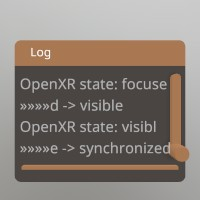
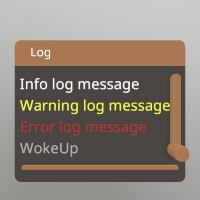
Vulkan is the only supported graphics backend now.

Changed region(s): [[0.09, 0.39, 0.87, 0.78]]

diff --git a/src/tools/xr_comp_layers.rs b/src/tools/xr_comp_layers.rs
@@ -14,17 +14,13 @@ use crate::{
 use openxr_sys::{pfn::CreateSwapchainAndroidSurfaceKHR, platform::jobject};
 
 use openxr_sys::{
-    Duration, Handle, Session, Space, Swapchain, SwapchainImageWaitInfo,
+    CompositionLayerFlags, CompositionLayerQuad, Duration, Extent2Df, Extent2Di, EyeVisibility, Handle, Offset2Di,
+    Posef, Quaternionf, Rect2Di, Result as XrResult, Session, Space, StructureType, Swapchain, SwapchainCreateFlags,
+    SwapchainCreateInfo, SwapchainImageWaitInfo, SwapchainSubImage, SwapchainUsageFlags, Vector3f,
     pfn::{
         AcquireSwapchainImage, CreateSwapchain, DestroySwapchain, EnumerateSwapchainImages, ReleaseSwapchainImage,
         WaitSwapchainImage,
     },
-};
-
-use openxr_sys::{
-    CompositionLayerFlags, CompositionLayerQuad, Extent2Df, Extent2Di, EyeVisibility, Offset2Di, Posef, Quaternionf,
-    Rect2Di, Result as XrResult, StructureType, SwapchainCreateFlags, SwapchainCreateInfo, SwapchainSubImage,
-    SwapchainUsageFlags, Vector3f,
 };
 
 use std::ptr::null_mut;
@@ -180,20 +176,13 @@ impl XrCompLayers {
     /// Convert a StereoKit `TexFormat` into the corresponding native OpenXR format value.
     pub fn to_native_format(format: TexFormat) -> i64 {
         match Backend::graphics() {
-            BackendGraphics::D3D11 => match format {
-                TexFormat::Rgba32Srgb => 29,
-                TexFormat::Rgba32Linear => 28,
-                TexFormat::Bgra32Srgb => 91,
-                TexFormat::Bgra32Linear => 87,
-                TexFormat::Rgb10a2 => 24,
-                TexFormat::Rg11b10 => 26,
-                _ => panic!("Unsupported texture format"),
-            },
-            BackendGraphics::OpenGLESEGL => match format {
-                TexFormat::Rgba32Srgb => 0x8C43,
-                TexFormat::Rgba32Linear => 0x8058,
-                TexFormat::Rgb10a2 => 0x8059,
-                TexFormat::Rg11b10 => 0x8C3A,
+            BackendGraphics::Vulkan => match format {
+                TexFormat::Rgba32Srgb => 43,   // VK_FORMAT_R8G8B8A8_SRGB
+                TexFormat::Rgba32Linear => 37, // VK_FORMAT_R8G8B8A8_UNORM
+                TexFormat::Bgra32Srgb => 50,   // VK_FORMAT_B8G8R8A8_SRGB
+                TexFormat::Bgra32Linear => 44, // VK_FORMAT_B8G8R8A8_UNORM
+                TexFormat::Rgb10a2 => 64,      // VK_FORMAT_A2B10G10R10_UNORM_PACK32
+                TexFormat::Rg11b10 => 122,     // VK_FORMAT_B10G11R11_UFLOAT_PACK32
                 _ => panic!("Unsupported texture format"),
             },
             _ => panic!("Unsupported graphics backend"),
@@ -446,10 +435,7 @@ pub struct SwapchainSk {
     pub height: u32,
     pub acquired: u32,
     images: Vec<Tex>,
-    #[cfg(unix)]
-    gles_images: Vec<openxr_sys::SwapchainImageOpenGLESKHR>,
-    #[cfg(windows)]
-    d3d_images: Vec<openxr_sys::SwapchainImageD3D11KHR>,
+    vk_images: Vec<openxr_sys::SwapchainImageVulkanKHR>,
 }
 
 impl SwapchainSk {
@@ -505,8 +491,7 @@ impl SwapchainSk {
         Some(&self.images[self.acquired as usize])
     }
 
-    /// Wrap OpenGL ES swapchain images into `Tex` objects for `unix` platforms.
-    #[cfg(unix)]
+    /// Wrap Vulkan swapchain images into `Tex` objects.
     pub fn wrap(
         handle: Swapchain,
         format: TexFormat,
@@ -514,97 +499,12 @@ impl SwapchainSk {
         height: u32,
         xr_comp_layers: Option<XrCompLayers>,
     ) -> Option<Self> {
-        use openxr_sys::SwapchainImageOpenGLESKHR;
-
-        let xr_comp_layers = get_xr_comp_layers(xr_comp_layers)?;
-
-        let mut image_count = 0;
-        match unsafe { xr_comp_layers.xr_enumerate_swaptchain_images.unwrap()(handle, 0, &mut image_count, null_mut()) }
-        {
-            XrResult::SUCCESS => {}
-            otherwise => {
-                Log::err(format!("❌ xrEnumerateSwapchainImages failed: {otherwise}"));
-                return None;
-            }
-        }
-
-        if Backend::graphics() == BackendGraphics::OpenGLESEGL {
-            let mut gles_images: Vec<SwapchainImageOpenGLESKHR> = {
-                let images: Vec<SwapchainImageOpenGLESKHR> = vec![
-                    SwapchainImageOpenGLESKHR {
-                        image: 0,
-                        ty: StructureType::SWAPCHAIN_IMAGE_OPENGL_ES_KHR,
-                        next: null_mut()
-                    };
-                    image_count as usize
-                ];
-                images
-            };
-
-            let mut final_count = 0;
-            match unsafe {
-                xr_comp_layers.xr_enumerate_swaptchain_images.unwrap()(
-                    handle,
-                    image_count,
-                    &mut final_count,
-                    gles_images.as_mut_ptr() as *mut _,
-                )
-            } {
-                XrResult::SUCCESS => {}
-                otherwise => {
-                    Log::err(format!("❌ xrEnumerateSwapchainImages failed: {otherwise}"));
-                    return None;
-                }
-            }
-
-            assert_eq!(gles_images.len(), image_count as usize);
-            //assert_eq!(gles_images.len(), 3);
-
-            let mut this =
-                Self { xr_comp_layers, handle, width, height, acquired: 0, gles_images, images: Vec::with_capacity(0) };
-
-            for image in &this.gles_images {
-                Log::diag(format!("SwapchainSk: image: {image:#?}"));
-                // let mut image_sk =
-                //     Tex::gen_color(named_colors::BLUE_VIOLET, width, height, TexType::Rendertarget, format);
-                //let mut image_sk = Tex::new(TexType::Rendertarget, format, None);
-                let mut image_sk =
-                    Tex::render_target(width as usize, height as usize, Some(2), Some(format), None).unwrap();
-                unsafe {
-                    image_sk.set_native_surface(
-                        image.image as *mut std::ffi::c_void,
-                        TexType::Rendertarget,
-                        XrCompLayers::to_native_format(format),
-                        width as i32,
-                        height as i32,
-                        1,
-                        true,
-                    )
-                };
-                this.images.push(image_sk);
-            }
-            Some(this)
-        } else {
-            Log::warn("❌ SwapchainSk: OpenGL ES backend is not available");
-            None
-        }
-    }
-
-    /// Wrap D3D11 swapchain images into `Tex` objects for `windows` platforms.
-    #[cfg(windows)]
-    pub fn wrap(
-        handle: Swapchain,
-        format: TexFormat,
-        width: u32,
-        height: u32,
-        xr_comp_layers: Option<XrCompLayers>,
-    ) -> Option<Self> {
-        use openxr_sys::SwapchainImageD3D11KHR;
+        use openxr_sys::SwapchainImageVulkanKHR;
         use std::ptr::null_mut;
 
         let xr_comp_layers = get_xr_comp_layers(xr_comp_layers)?;
 
-        // First, get the image count
+        // Get the image count
         let mut image_count = 0;
         match unsafe { xr_comp_layers.xr_enumerate_swaptchain_images.unwrap()(handle, 0, &mut image_count, null_mut()) }
         {
@@ -615,13 +515,13 @@ impl SwapchainSk {
             }
         }
 
-        // Only proceed for D3D11 backend
-        if Backend::graphics() == BackendGraphics::D3D11 {
-            // Prepare D3D11 image array
-            let mut d3d_images: Vec<SwapchainImageD3D11KHR> = vec![
-                SwapchainImageD3D11KHR {
-                    texture: null_mut(),
-                    ty: StructureType::SWAPCHAIN_IMAGE_D3D11_KHR,
+        // Only proceed for Vulkan backend
+        if Backend::graphics() == BackendGraphics::Vulkan {
+            // Prepare Vulkan image array
+            let mut vk_images: Vec<SwapchainImageVulkanKHR> = vec![
+                SwapchainImageVulkanKHR {
+                    image: 0,
+                    ty: StructureType::SWAPCHAIN_IMAGE_VULKAN_KHR,
                     next: null_mut(),
                 };
                 image_count as usize
@@ -632,7 +532,7 @@ impl SwapchainSk {
                     handle,
                     image_count,
                     &mut final_count,
-                    d3d_images.as_mut_ptr() as *mut _,
+                    vk_images.as_mut_ptr() as *mut _,
                 )
             } {
                 XrResult::SUCCESS => {}
@@ -642,20 +542,17 @@ impl SwapchainSk {
                 }
             }
             let mut this =
-                Self { xr_comp_layers, handle, width, height, acquired: 0, d3d_images, images: Vec::with_capacity(0) };
+                Self { xr_comp_layers, handle, width, height, acquired: 0, vk_images, images: Vec::with_capacity(0) };
 
-            // Wrap each D3D11 texture into a Tex object
-            for img in &this.d3d_images {
+            // Wrap each Vulkan image into a Tex object
+            for img in &this.vk_images {
                 Log::diag(format!("SwapchainSk: image: {:#?}", img));
-                // let mut image_sk =
-                //     Tex::gen_color(named_colors::BLUE_VIOLET, width, height, TexType::Rendertarget, format);
-                // let mut image_sk = Tex::new(TexType::Rendertarget, format, None);
                 let mut image_sk =
                     Tex::render_target(width as usize, height as usize, Some(1), Some(format), None).unwrap();
 
                 unsafe {
                     image_sk.set_native_surface(
-                        img.texture,
+                        img.image as *mut std::ffi::c_void,
                         TexType::Rendertarget,
                         XrCompLayers::to_native_format(format),
                         width as i32,
@@ -668,7 +565,7 @@ impl SwapchainSk {
             }
             Some(this)
         } else {
-            Log::warn("❌ SwapchainSk: D3D11 backend is not available");
+            Log::warn("❌ SwapchainSk: Vulkan backend is not available");
             None
         }
     }

diff --git a/examples/demos/hand_menu_radial1.rs b/examples/demos/hand_menu_radial1.rs
@@ -5,7 +5,7 @@ use stereokit_rust::{
     mesh::Mesh,
     model::Model,
     prelude::*,
-    system::Renderer,
+    system::{Backend, BackendPlatform, Renderer},
     tex::{SHCubemap, Tex, TexFormat, TexSample},
     tools::{fly_over::ENABLE_FLY_OVER, log_window::SHOW_LOG_WINDOW, screenshot::SHOW_SCREENSHOT_WINDOW},
     util::{
@@ -215,28 +215,31 @@ impl HandMenuRadial1 {
         let cube_default = SHCubemap::get_rendered_sky();
         cube_default.render_as_sky();
 
-        let cube0 = cube_default.clone_ref();
-        let cube1 = cube_default.clone_ref();
+        let mut cube0 = cube_default.clone_ref();
+        let mut cube1 = cube_default.clone_ref();
 
-        // let mut gradient_sky = Gradient::new(None);
-        // gradient_sky
-        //     .add(Color128::BLACK, 0.0)
-        //     .add(BLUE, 0.4)
-        //     .add(LIGHT_BLUE, 0.8)
-        //     .add(LIGHT_CYAN, 0.9)
-        //     .add(WHITE, 1.0);
-        // let cube0 = SHCubemap::gen_cubemap_gradient(gradient_sky, Vec3::Y, 1024);
+        if Backend::platform() != BackendPlatform::Web {
+            Log::warn("Using gradient for cubemap may crash the application");
+        } else {
+            let mut gradient_sky = Gradient::new(None);
+            gradient_sky
+                .add(Color128::BLACK, 0.0)
+                .add(BLUE, 0.4)
+                .add(LIGHT_BLUE, 0.8)
+                .add(LIGHT_CYAN, 0.9)
+                .add(WHITE, 1.0);
+            cube0 = SHCubemap::gen_cubemap_gradient(gradient_sky, Vec3::Y, 1024);
 
-        // let mut gradient = Gradient::new(None);
-        // gradient
-        //     .add(RED, 0.01)
-        //     .add(YELLOW, 0.1)
-        //     .add(LIGHT_CYAN, 0.3)
-        //     .add(LIGHT_BLUE, 0.4)
-        //     .add(BLUE, 0.5)
-        //     .add(BLACK, 0.7);
-        // let cube1 = SHCubemap::gen_cubemap_gradient(&gradient, Vec3::NEG_Z, 1);
-
+            let mut gradient = Gradient::new(None);
+            gradient
+                .add(RED, 0.01)
+                .add(YELLOW, 0.1)
+                .add(LIGHT_CYAN, 0.3)
+                .add(LIGHT_BLUE, 0.4)
+                .add(BLUE, 0.5)
+                .add(BLACK, 0.7);
+            cube1 = SHCubemap::gen_cubemap_gradient(&gradient, Vec3::NEG_Z, 1);
+        }
         let lights: [SHLight; 1] = [SHLight::new(Vec3::ONE, WHITE); 1];
         let sh = SphericalHarmonics::from_lights(&lights);
         let cube2 = SHCubemap::gen_cubemap_sh(sh, 15, 5.0, 0.02);
@@ -253,7 +256,7 @@ impl HandMenuRadial1 {
         //     "hdri/giza/front.png",
         //     "hdri/giza/back.png",
         // ];
-        // let cube4 = SHCubemap::from_cubemap_files(&cubemap_files, true, 0).unwrap_or(SHCubemap::get_rendered_sky());
+        // cube4 = SHCubemap::from_cubemap_files(&cubemap_files, true, 0).unwrap_or(SHCubemap::get_rendered_sky());
 
         // You can also zip the files:
         // ktx create --cubemap --encode uastc  --format R8G8B8A8_UNORM  --assign-oetf linear --assign-primaries bt709

diff --git a/src/system.rs b/src/system.rs
@@ -476,7 +476,7 @@ pub enum BackendXRType {
 pub enum BackendPlatform {
     /// This is running as a Windows app using the Win32 APIs.
     Win32 = 0,
-    /// This is running as a Windows app using the UWP APIs.
+    /// This is running as a Windows app using the UWP APIs (no longer supported).
     Uwp = 1,
     /// This is running as a Linux app.
     Linux = 2,
@@ -495,19 +495,22 @@ pub enum BackendPlatform {
 pub enum BackendGraphics {
     /// An invalid default value.
     None = 0,
-    /// DirectX’s Direct3D11 is used for rendering! This is used by default on Windows.
+    /// DirectX’s Direct3D11 is used for rendering! This is used by default on Windows. (No longer supported)
     D3D11 = 1,
     /// OpenGL is used for rendering, using GLX (OpenGL Extension to the X Window System) for loading. This is used by
-    /// default on Linux.
+    /// default on Linux. (No longer supported)
     OpenGLGLX = 2,
     /// OpenGL is used for rendering, using WGL (Windows Extensions to OpenGL) for loading. Native developers can
-    /// configure SK to use this on Windows.
+    /// configure SK to use this on Windows. (No longer supported)
     OpenGLWGL = 3,
     /// OpenGL ES is used for rendering, using EGL (EGL Native Platform Graphics Interface) for loading. This is used by
-    /// default on Android, and native developers can configure SK to use this on Linux.
+    /// default on Android, and native developers can configure SK to use this on Linux. (No longer supported)
     OpenGLESEGL = 4,
     /// WebGL is used for rendering. This is used by default on Web.
     WebGL = 5,
+    /// Vulkan is used for rendering, this works basically on every platform, and is the only backend StereoKit
+    /// currently supports!
+    Vulkan = 6,
 }
 
 /// XrInstance type
